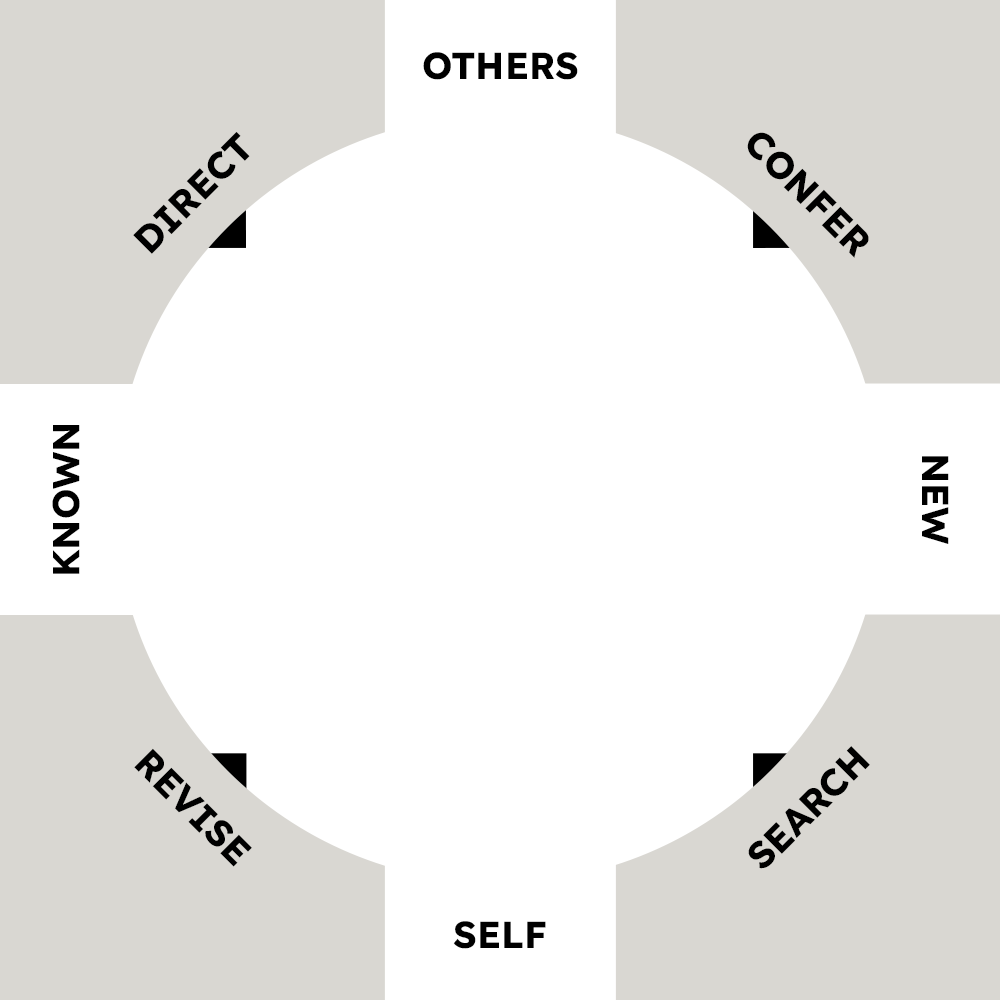
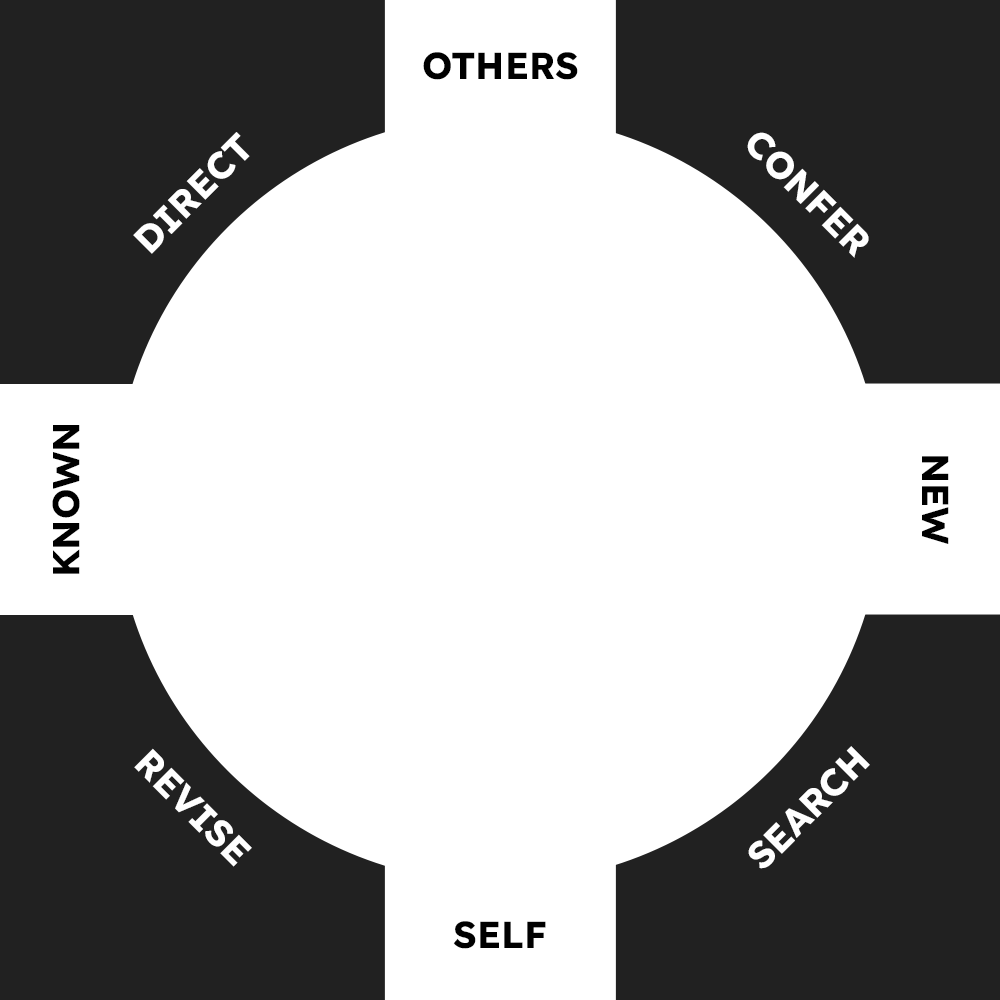
image.png

diff --git a/app/visualiser/diagramChanges.js b/app/visualiser/diagramChanges.js
@@ -46,10 +46,10 @@ export const defaultStyles = {
     knownLeftLetter: "?",
 
     // Module Colours
-    othersColour: "bg-[#D0D0D0]",
-    selfColour: "bg-[#D0D0D0]",
-    newsColour: "bg-[#D0D0D0]",
-    knownColour: "bg-[#D0D0D0]",
+    othersColour: "bg-tan",
+    selfColour: "bg-tan",
+    newsColour: "bg-tan",
+    knownColour: "bg-tan",
 
     // Module Main Letters
     othersMainLetter: "D",
@@ -180,7 +180,7 @@ export const drawDiagram = (type, styles) => {
         case 2: // Major Void
             changeNewStyles({
                 othersBorder: "shadow-[0_0px_0px_23.8235px_rgba(0,0,0,1)] scale-[0.62963]",
-                othersColour: "bg-[#D0D0D0]",
+                othersColour: "bg-tan",
             });
             break;
         case 1: // Minor Hook
@@ -192,7 +192,7 @@ export const drawDiagram = (type, styles) => {
         case -1: // Minor Void
             changeNewStyles({
                 othersBorder: "shadow-[0_0px_0px_15px_rgba(0,0,0,1)] scale-[1]",
-                othersColour: "bg-[#D0D0D0]",
+                othersColour: "bg-tan",
             });
             break;
     }
@@ -212,7 +212,7 @@ export const drawDiagram = (type, styles) => {
         case 2: // Major Void
             changeNewStyles({
                 selfBorder: "shadow-[0_0px_0px_23.8235px_rgba(0,0,0,1)] scale-[0.62963]",
-                selfColour: "bg-[#D0D0D0]",
+                selfColour: "bg-tan",
             });
             break;
         case 1: // Minor Hook
@@ -224,7 +224,7 @@ export const drawDiagram = (type, styles) => {
         case -1: // Minor Void
             changeNewStyles({
                 selfBorder: "shadow-[0_0px_0px_15px_rgba(0,0,0,1)] scale-[1]",
-                selfColour: "bg-[#D0D0D0]",
+                selfColour: "bg-tan",
             });
             break;
     }
@@ -244,7 +244,7 @@ export const drawDiagram = (type, styles) => {
         case 2: // Major Void
             changeNewStyles({
                 newsBorder: "shadow-[0_0px_0px_23.8235px_rgba(0,0,0,1)] scale-[0.62963]",
-                newsColour: "bg-[#D0D0D0]",
+                newsColour: "bg-tan",
             });
             break;
         case 1: // Minor Hook
@@ -256,7 +256,7 @@ export const drawDiagram = (type, styles) => {
         case -1: // Minor Void
             changeNewStyles({
                 newsBorder: "shadow-[0_0px_0px_15px_rgba(0,0,0,1)] scale-[1]",
-                newsColour: "bg-[#D0D0D0]",
+                newsColour: "bg-tan",
             });
             break;
     }
@@ -277,7 +277,7 @@ export const drawDiagram = (type, styles) => {
         case 2: // Major Void
             changeNewStyles({
                 knownBorder: "shadow-[0_0px_0px_23.8235px_rgba(0,0,0,1)] scale-[0.62963]",
-                knownColour: "bg-[#D0D0D0]",
+                knownColour: "bg-tan",
             });
             break;
         case 1: // Minor Hook
@@ -289,7 +289,7 @@ export const drawDiagram = (type, styles) => {
         case -1: // Minor Void
             changeNewStyles({
                 knownBorder: "shadow-[0_0px_0px_15px_rgba(0,0,0,1)] scale-[1]",
-                knownColour: "bg-[#D0D0D0]",
+                knownColour: "bg-tan",
             });
             break;
     }
